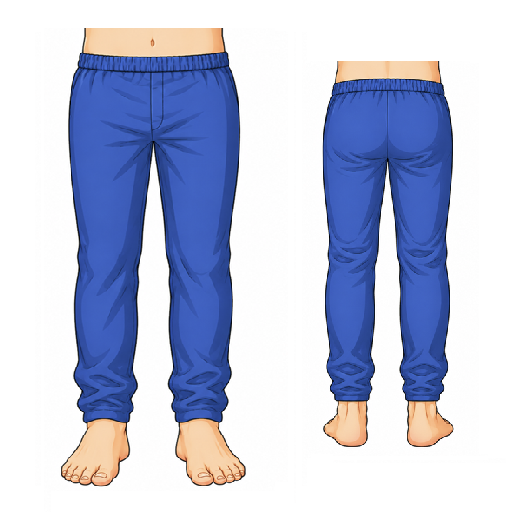
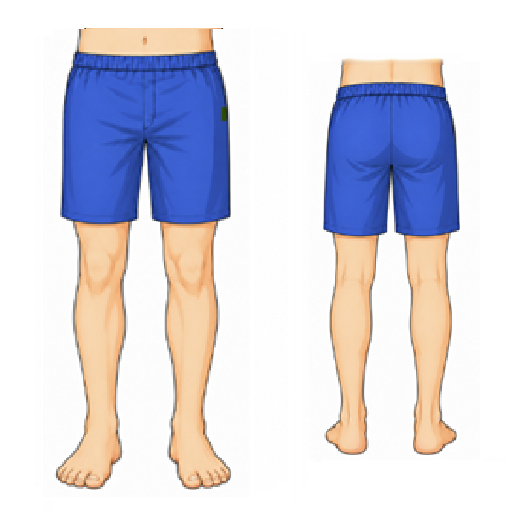
Fix lower body parts data

Changed region(s): [[0.0938, 0.0312, 0.5, 0.9688], [0.625, 0.0938, 0.9062, 0.9062], [0.2188, 0.2188, 0.25, 0.25]]

diff --git a/data/body/lowerParts.js b/data/body/lowerParts.js
@@ -6,7 +6,7 @@ export default [
         kanji: "足",
         speech: "あし",
         x: 46,
-        y: 443,
+        y: 450,
     },
 
     {
@@ -14,8 +14,8 @@ export default [
         word: "ひざ",
         kanji: "膝",
         speech: "ひざ",
-        x: 58,
-        y: 261,
+        x: 50,
+        y: 270,
     },
 
     {
@@ -33,7 +33,7 @@ export default [
         kanji: "足首",
         speech: "あしくび",
         x: 40,
-        y: 425,
+        y: 420,
     },
 
     {
@@ -41,7 +41,7 @@ export default [
         word: "つまさき",
         kanji: "爪先",
         speech: "つまさき",
-        x: 168,
+        x: 160,
         y: 475,
     },
 
@@ -51,7 +51,7 @@ export default [
         kanji: "脛",
         speech: "すね",
         x: 50,
-        y: 321,
+        y: 340,
     },
 
     {
@@ -60,7 +60,7 @@ export default [
         kanji: "脹脛",
         speech: "ふくらはぎ",
         x: 300,
-        y: 315,
+        y: 320,
     },
 
     {
@@ -78,7 +78,7 @@ export default [
         kanji: "踵",
         speech: "かかと",
         x: 308,
-        y: 441,
+        y: 446,
     },
 
 ];